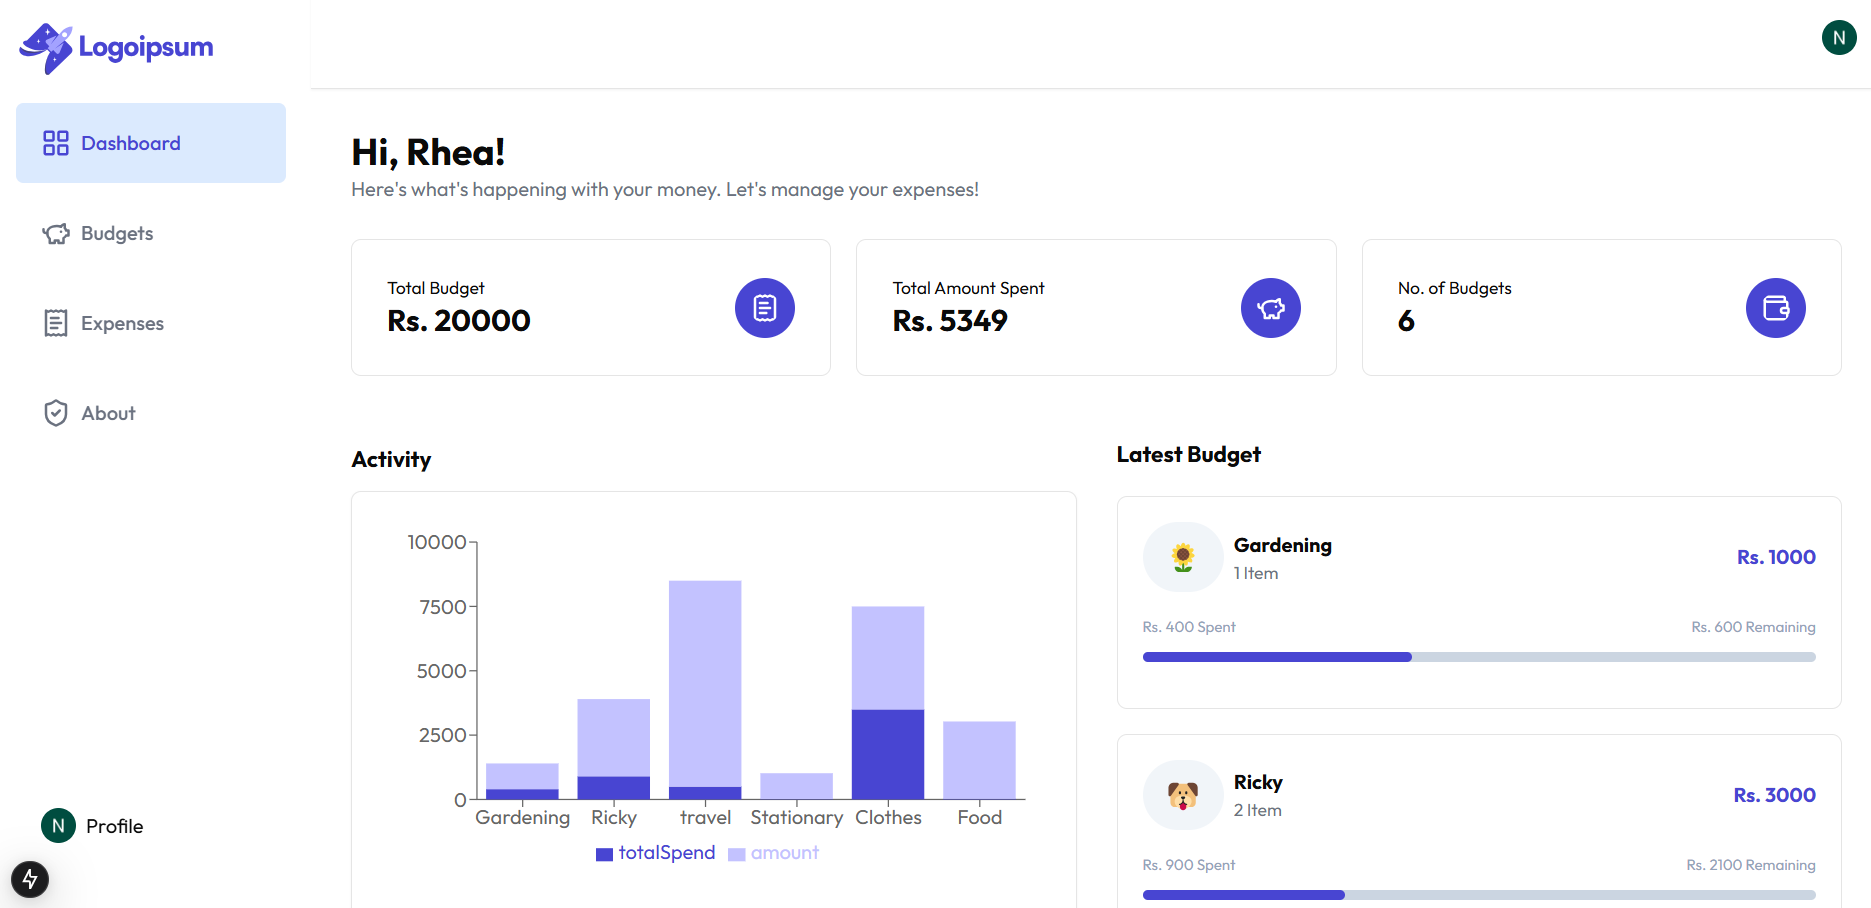
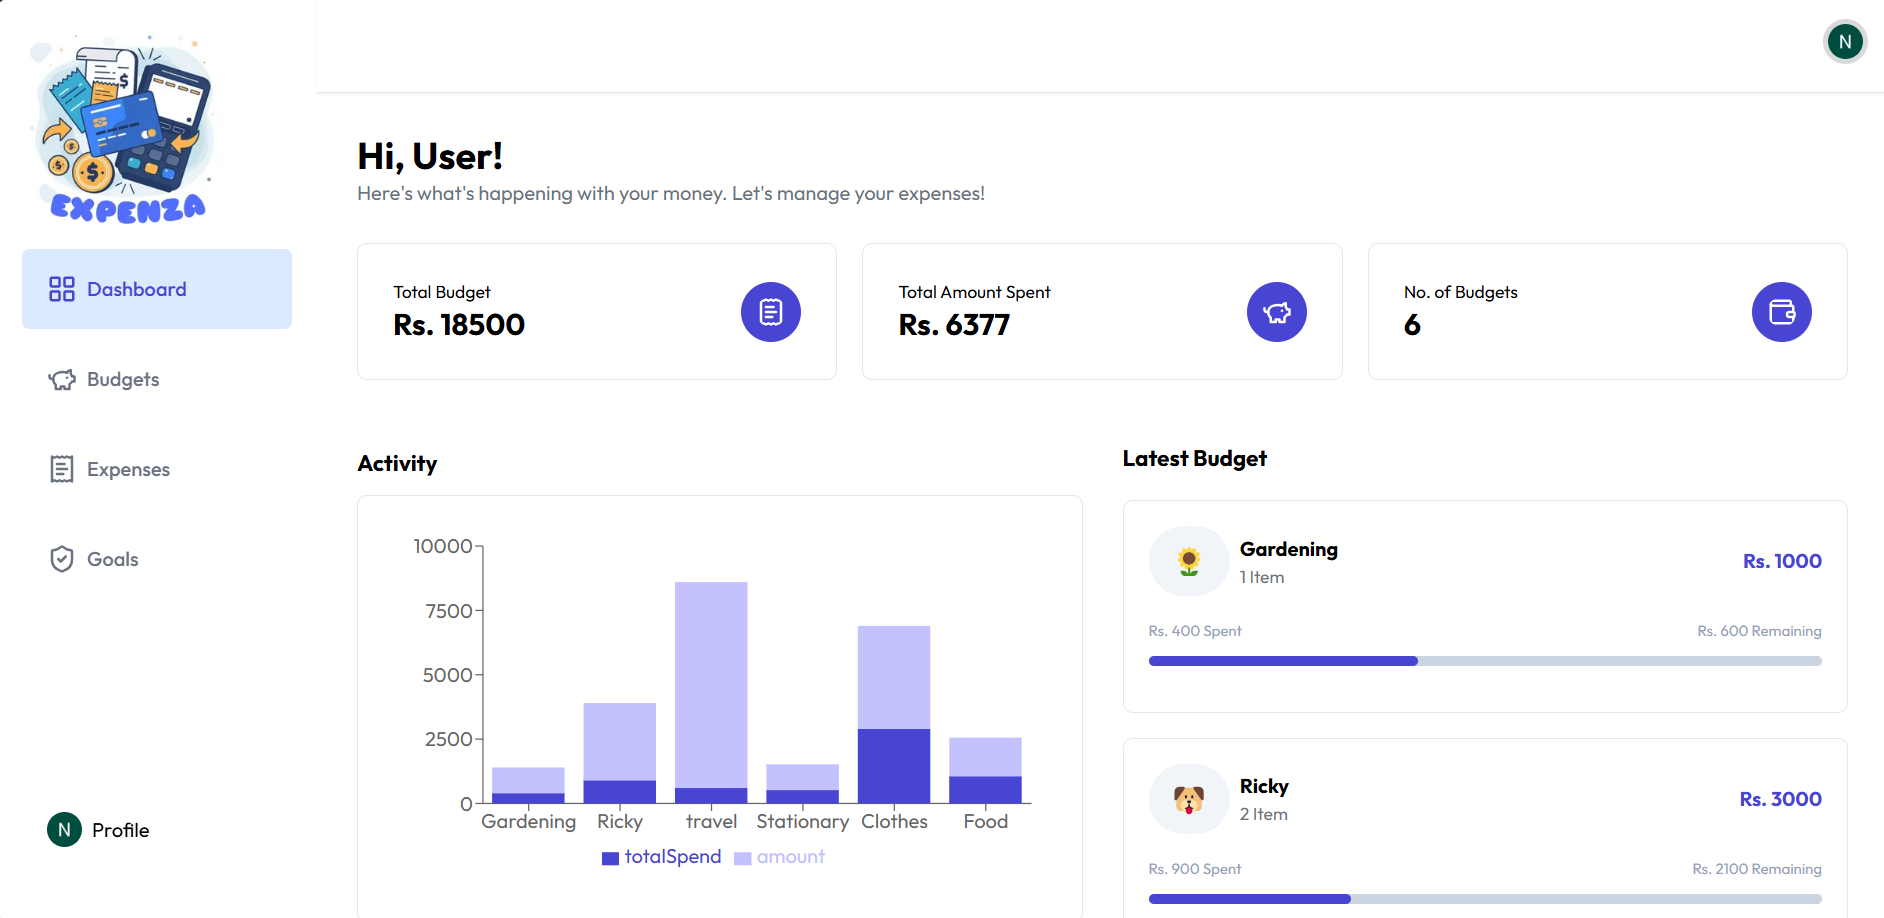
updated log

diff --git a/app/_components/Header.jsx b/app/_components/Header.jsx
@@ -12,8 +12,10 @@ function Header() {
 
   return (
     <div className='p-5 flex justify-between items-center border shadow-sm'>
+   
       <Image
-        src={'./logo.svg'}
+        // src={'./logo.svg'}
+        src='/logolight.png' 
         alt='logo'
         width={160}
         height={100}
@@ -31,3 +33,5 @@ function Header() {
 }
 
 export default Header;
+
+

diff --git a/app/(routes)/dashboard/_components/SideNav.jsx b/app/(routes)/dashboard/_components/SideNav.jsx
@@ -44,7 +44,7 @@ function SideNav() {
     return (
         <div className='h-screen p-5'>
             <Image 
-                src={'/logo.svg'} // Ensure the logo path is correct
+                src={'/logolight.png'} // Ensure the logo path is correct
                 alt='logo'
                 width={160}
                 height={100}
